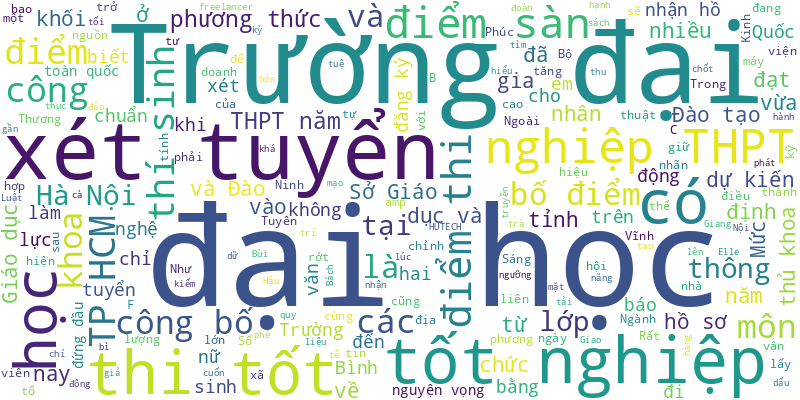
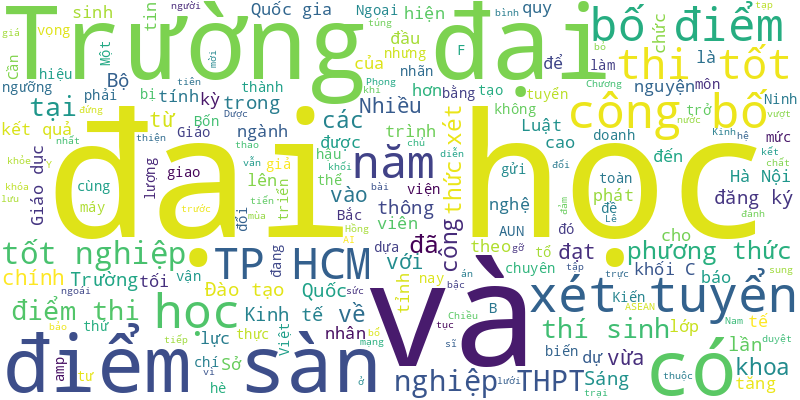
🍀 = 60%

diff --git a/README.md b/README.md
@@ -1,6 +1,28 @@
 # Tuoi Tre RSS 
 
 ## Giáo dục 
+- Bộ Công an chính thức công bố điểm kỳ thi đánh giá của Bộ Công an năm 2024.
+- Trường đại học Kinh tế đang là trường có điểm sàn cao nhất trong các trường thành viên trực thuộc Đại học Quốc gia Hà Nội, với mức điểm 23,5.
+- Tính đến tối 19-7, đã có hơn 70 đại học, trường đại học, học viện công bố điểm sàn xét tuyển dựa vào kết quả thi tốt nghiệp THPT.
+- Nhiều trường đại học tiếp tục công bố điểm sàn phương thức xét tuyển điểm thi tốt nghiệp THPT.
+- Bốn học sinh Trường chuyên Lê Hồng Phong, TP.HCM đã cùng thực hiện dự án thiện nguyện về AI trong mùa hè năm 2024.
+- Một tiến sĩ người Việt vừa bị các tạp chí gỡ bỏ 3 bài báo vì quy trình bình duyệt bị thao túng nhưng vẫn được mời làm diễn giả một khóa học.
+- Tối 19-7, Đại học Kinh tế TP.HCM đã công bố điểm sàn đối với phương thức xét tuyển dựa vào kết quả thi tốt nghiệp THPT năm 2024.
+- Trường đại học Y Dược TP.HCM vừa công bố điểm sàn xét tuyển đại học hệ chính quy năm 2024, trong đó có 2 ngành có mức điểm cao hơn năm ngoái.
+- Trường đại học Luật TP.HCM và Trường đại học Quốc tế (Đại học Quốc gia TP.HCM) công bố điểm sàn phương thức xét điểm thi tốt nghiệp THPT năm 2024.
+- Lần đầu tiên mạng lưới đại học ASEAN (AUN) tổ chức trại hè AUN cho sinh viên 10 nước giao lưu và học tập về chủ đề biến biến đổi khí hậu tại Việt Nam.
+- Chiều 19-7, Sở Giáo dục và Đào tạo TP.HCM đã có thông báo chính thức về tuyển sinh bổ sung lớp 10 năm 2024.
+- Bộ Giáo dục và Đào tạo vừa công bố ngưỡng điểm đảm bảo chất lượng đầu vào (điểm sàn) ở khối đào tạo sức khỏe và giáo viên.
+- Trong kỳ thi tốt nghiệp THPT 2024, Bắc Ninh đứng thứ 5 toàn quốc và vượt lên 21 bậc so với bốn năm về trước.
+- Chương trình học bổng toàn phần được ĐH Kinh tế TP.HCM dành riêng phát triển các nhân tài vùng Mekong - Đồng bằng sông Cửu Long.
+- Nhiều thí sinh cho biết không thể gửi tin nhắn hoặc gửi được nhưng không có mã OTP trả về để hoàn thành đăng ký nguyện vọng xét tuyển.
+- Đó là đề nghị của Thứ trưởng Bộ Khoa học và Công nghệ Hoàng Minh tại hội thảo “Phát triển nguồn nhân lực khoa học, công nghệ và đổi mới sáng tạo trình độ quốc tế”, tổ chức tại Cần Thơ ngày 19-7.
+- Sở Giáo dục và Đào tạo tỉnh Bắc Ninh vừa có thông tin chính thức về điểm thi tốt nghiệp THPT 2024, sau khi tỉnh này đạt kết quả rất cao, đặc biệt là các môn khối C.
+- Sáng 19-7, Trường đại học Kiến trúc TP.HCM và Trường đại học FPT công bố điểm sàn xét tuyển theo phương thức điểm thi tốt nghiệp THPT.
+- Thí sinh đăng ký dự tuyển và theo học tại trụ sở chính của Trường đại học Luật Hà Nội theo khối C (văn, sử, địa) phải có điểm sàn xét tuyển từ 20 điểm trở lên.
+- Năm 2024, số thí sinh có điểm thi khối C đạt 28 điểm tăng 6 lần, 29 điểm tăng hơn 10 lần, 30 điểm tăng 54 lần so với năm 2023.
+- Trường đại học Ngoại thương vừa công bố điểm sàn phương thức xét điểm thi tốt nghiệp THPT và xét kết hợp điểm thi tốt nghiệp với chứng chỉ ngoại ngữ quốc tế.
+- Hôm qua 18-7, thí sinh đã bắt đầu đăng ký xét tuyển đại học năm 2024. Thí sinh cần cân nhắc nhiều yếu tố để chọn đúng ngành học mong muốn.
 - Ngành khoa học máy tính, kỹ thuật máy tính, khoa học dữ liệu và trí tuệ nhân tạo tại Đại học Bách khoa Hà Nội dự kiến có điểm chuẩn trên 28.
 - Sáng 19-7, Trường đại học Kinh tế - Luật (Đại học Quốc gia TP.HCM) công bố điểm sàn nhận hồ sơ xét tuyển đại học 2024. Nhiều trường đại học tư thục cũng công bố điểm sàn các phương thức xét tuyển.
 - Trường đại học Giao thông vận tải công bố điểm sàn từ 16 - 23. Tại Trường đại học Công đoàn, thí sinh đạt từ 5 điểm/môn có thể đăng ký xét tuyển.
@@ -9,62 +31,42 @@
 - Ngoài đạt ngưỡng điểm sàn quy định, thí sinh xét tuyển vào Học viện Báo chí và Tuyên truyền phải có học lực 5 kỳ đạt từ 6,5 và hạnh kiểm khá trở lên.
 - Sáng nay 18-7, đông đảo thí sinh đã có mặt tại Trường Đại học Công nghệ TP.HCM (HUTECH) để tìm hiểu thông tin xét tuyển và chốt nguyện vọng 1 vào trường.
 - Elle Bùi hiện đang cùng lúc vận hành hai nhãn hiệu F&amp;B kinh doanh trà và cà phê, và làm freelancer chuyên tư vấn xây dựng thực đơn cho các doanh nghiệp F&amp;B khác.
-- Trường đại học Công nghiệp Hà Nội, Trường đại học Tài nguyên Hà Nội, Trường đại học Phenikaa, Trường đại học Điện lực... vừa công bố điểm sàn xét tuyển bằng điểm thi tốt nghiệp THPT năm 2024.
-- Chiều 18-7, Học viện Công nghệ bưu chính viễn thông thông báo mức điểm sàn nhận hồ sơ xét tuyển phương thức xét điểm thi tốt nghiệp THPT năm 2024.
-- Dự kiến sau ngày 20-7, Sở Giáo dục và Đào tạo TP.HCM sẽ có thông báo về việc tuyển bổ sung lớp 10 năm 2024.
-- Mức điểm sàn xét tuyển điểm thi tốt nghiệp THPT của hai trường đại học này dao động 16 - 19 điểm.
-- Mức điểm sàn xét điểm thi tốt nghiệp Trường đại học Thương mại là 20. Trường đại học Hòa Bình có 20 ngành cùng lấy điểm sàn 15 điểm.
-- Sở Giáo dục và Đào tạo Hà Nội mới công bố tốp các trường có điểm trung bình môn thi tốt nghiệp THPT cao nhất năm nay.
-- Giám đốc Sở Giáo dục và Đào tạo TP.HCM lý giải về điểm thi tốt nghiệp THPT 2024. Trong đó, TP.HCM đứng thứ 20/63 tỉnh, thành.
-- Rất nhiều thí sinh có điểm xét tuyển đại học theo tổ hợp rất cao nhưng bị điểm liệt. Như vậy thí sinh vừa rớt tốt nghiệp vừa rớt đại học.
-- Bộ Nội vụ yêu cầu các địa phương rà soát hồ sơ cán bộ, công chức, viên chức kê khai sử dụng chứng chỉ ngoại ngữ liên quan đến tổ chức Cambridge International.
-- Sau khi biết điểm thi tốt nghiệp THPT 2024, thí sinh cần lưu ý các mốc thời gian như đăng ký, điều chỉnh nguyện vọng xét tuyển đại học...
-- Số lượng thí sinh chọn bài thi khoa học xã hội liên tục tăng, đồng nghĩa nguồn tuyển cho khối trường kỹ thuật công nghệ cũng ít đi.
-- Điểm chuẩn xét tuyển đại học bằng phương thức điểm thi tốt nghiệp THPT năm nay dự kiến sẽ không biến động nhiều.
-- Trường đại học Khoa học tự nhiên (Đại học Quốc gia TP.HCM) và Trường đại học Công Thương TP.HCM vừa công bố điểm sàn xét tuyển dựa trên điểm thi tốt nghiệp THPT năm 2024.
-- Ngày 17-7, Sở Giáo dục và Đào tạo tỉnh Gia Lai cho biết hai thí sinh đặc biệt là các thầy giáo U50 người Jarai đã đậu tốt nghiệp THPT.
-- Có kết quả thi tốt nghiệp THPT, thí sinh phải đưa ra quyết định phù hợp khi đăng ký, điều chỉnh nguyện vọng xét tuyển đại học.
-- Điểm chuẩn trúng tuyển vào Trường đại học Khoa học xã hội và Nhân văn năm 2024 phương thức xét điểm thi tốt nghiệp THPT dự kiến giữ ổn định, hoặc có thể tăng nhẹ so với năm ngoái.
-- Mức điểm sàn nhận hồ sơ xét tuyển vào Đại học Quốc gia Hà Nội là 20 điểm, chưa nhân hệ số, đã bao gồm điểm ưu tiên khu vực và đối tượng.
-- Thi tốt nghiệp THPT để lấy điểm xét tuyển đại học, nữ sinh tỉnh Vĩnh Phúc 'sốc' khi biết mình trở thành thủ khoa toàn quốc khối D01 với 28,75 điểm.
-- 'Em không đi học thêm ở ngoài, chỉ học ở trên lớp và tự học ở nhà. Hôm thi tốt nghiệp, môn văn em làm 12 trang giấy', nữ sinh được 10 điểm môn văn chia sẻ.
-- Vĩnh Phúc có điểm thi đứng đầu ở 4 môn thi, Tuyên Quang đứng đầu 2 môn. TP.HCM, Nam Định, Ninh Bình mỗi địa phương đứng đầu một môn thi.
-- Học bổng  Chắp cánh ước mơ không chỉ là nguồn động viên về vật chất, mà còn là món quà lớn về tinh thần giúp con đường học tập của các em bớt đi sự gập ghềnh.
-- Một lớp có bốn thủ khoa toàn quốc khối C; có nữ sinh đang làm công nhân trong nhà xưởng nhận tin đạt thủ khoa... 13/19 thủ khoa toàn quốc khối C tại Bắc Ninh là ai?
 ![Edu](Edu.png)
 ## Thời Sự 
-- Hơn 595.000 người rút bảo hiểm xã hội một lần trong 6 tháng đầu năm nay, tăng hơn 3,7% so với cùng kỳ năm ngoái.
-- Quốc lộ 1 đoạn qua cầu vượt Linh Xuân (TP.HCM) đến cầu vượt Sóng Thần (Bình Dương) từng được xem là "điểm đen" của nạn "đinh tặc". Thời gian gần đây lại rộ lên, người dân đã thu gom hàng ký đinh hình thoi sắc nhọn trên đoạn đường này.
-- Một số tin tức đáng chú ý: TP.HCM báo động tỉ lệ trẻ thừa cân, béo phì và tật khúc xạ; Đề xuất 10 nhóm đối tượng được Nhà nước đóng BHYT; Bổ sung 15 chất mới vào danh mục chất ma túy...
-- Hôm nay 19-7, thời tiết cả nước vẫn duy trì mưa dông, mưa to tại Bắc Bộ chủ yếu xảy ra từ đếm đến sáng. Nam Bộ mưa vào chiều tối và đêm.
-- Trả lời cử tri về việc người bệnh vẫn phải tự ra ngoài mua thuốc, vật tư diện bảo hiểm y tế, Bộ trưởng Bộ Y tế Đào Hồng Lan thừa nhận có tình trạng thiếu "cục bộ" tại một số bệnh viện.
-- Hình ảnh trẻ nhỏ ngồi vắt vẻo trên lan can cầu Bến Rừng (nối Hải Phòng với Quảng Ninh) để chụp hình khiến nhiều người cạn lời.
-- Các quốc gia ven biển có quyền tuyên bố thềm lục địa mở rộng ngoài 200 hải lý nếu điều kiện về mặt tự nhiên, địa chất cho phép.
-- Trên một số tuyến đường, các biển báo giao thông bị khuất sau lùm cây, bảng quảng cáo. Khó quan sát, người đi đường cứ thấp thỏm sợ bị dính phạt.
-- Tỉnh Khánh Hòa vừa thu hồi tiếp 9,59ha đất trên núi Chín Khúc, thuộc một phần diện tích còn lại của dự án khu biệt thự và du lịch sinh thái trong khu kinh tế trang trại Đất Lành.
-- Ngày 18-7 tại tỉnh Quảng Nam, Tòa án nhân dân tối cao Việt Nam đã tổ chức Hội nghị tòa án các tỉnh có chung đường biên giới Việt Nam, Campuchia và Lào lần thứ 7.
-- UBND TP Nha Trang chỉ đạo tuyên truyền để người dân cung cấp thông tin, hình ảnh xe vi phạm quy định về dừng, đỗ xe gây mất an toàn giao thông để phạt nguội.
-- Hàng nghìn tài xế công nghệ được đào tạo kỹ năng tiếng Anh, hỗ trợ hành khách, xử lý tình huống, lái xe an toàn…
-- Ngày 18-7, Công an huyện Gò Dầu (tỉnh Tây Ninh) đang tạm giữ hình sự Phạm Văn Hên (38 tuổi) để điều tra việc hiếp dâm người dưới 16 tuổi.
-- Theo TTXVN, chiều 18-7, Đảng, Nhà nước đã trang trọng tổ chức lễ trao tặng Huân chương Sao vàng tới Tổng bí thư Nguyễn Phú Trọng tại Bệnh viện Trung ương Quân đội 108.
-- Sau khi sắp xếp đơn vị hành chính như vậy, toàn tỉnh Bình Thuận có 10 huyện, thị, thành phố và 121 xã, phường trong giai đoạn 2023-2025.
-- Thông tin Đà Nẵng sẽ làm quảng trường ngàn tỉ ở trung tâm nhận được sự quan tâm của nhiều người. Tiến độ triển khai dự án ra sao?
-- Các nước đều "ghi nhận và tôn trọng quyền của Việt Nam" trong việc nộp đệ trình ranh giới thềm lục địa mở rộng ở khu vực giữa Biển Đông.
-- Thông tin ngắt kết nối mạng với điện thoại chỉ dùng được sóng 2G do đại diện Sở Thông tin và Truyền thông TP.HCM nêu tại họp báo định kỳ về kinh tế - xã hội chiều 18-7.
-- 6 chặng bay của Vietnam Airlines từ TP.HCM đến Hà Nội, Nha Trang, Đà Lạt, Đà Nẵng, Phú Quốc, Huế và ngược lại sẽ được hưởng ưu đãi từ chương trình chuyến bay đêm.
-- Chủ tịch Đại hội đồng Liên Hiệp Quốc Dennis Francis sẽ ở Việt Nam từ ngày 21 đến 23-7. Đây là lần đầu tiên một chủ tịch Đại hội đồng Liên Hiệp Quốc đến thăm Việt Nam.
-- Thanh tra tỉnh Quảng Nam chỉ ra nhiều sai phạm tại một số dự án đầu tư xây dựng cơ bản của Công ty Phát triển hạ tầng Khu công nghiệp Chu Lai.
-- Năm tháng đầu năm 2024, trong 11 loại vắc xin thuộc Chương trình tiêm chủng mở rộng chỉ có 3 loại tiêm đạt chỉ tiêu, còn 8 loại vắc xin chưa đạt chỉ tiêu đề ra trong tiêm chủng.
-- Đại diện Sở Tài nguyên và Môi trường TP.HCM cho biết TP đã có chính sách hỗ trợ các đơn vị thu gom rác có nhu cầu vay vốn chuyển đổi phương tiện.
-- Ngày 18-7, kỳ họp HĐND tỉnh Kiên Giang bước vào phiên chất vấn và trả lời chất vấn. Một trong các nội dung được quan tâm là phòng, chống ngập.
-- Tỉnh Tây Ninh đang đẩy nhanh tiến độ triển khai các công trình, dự án trọng điểm về giao thông hạ tầng, đặc biệt là dự án đường cao tốc TP.HCM - Mộc Bài.
-- Camera hành trình ô tô ghi cảnh xe buýt dừng giữa đường Lê Hồng Phong (quận 5, TP.HCM) đón khách. Clip sau đó được đăng lên mạng, gây bức xúc.
-- Dự án này trước đây được tỉnh Bình Thuận chọn là công trình tiêu biểu để chào mừng Năm Du lịch quốc gia 2023. Thế nhưng dự án đến nay vẫn chưa xong.
-- Ngày 18-7, kỳ họp Hội đồng nhân dân tỉnh Kiên Giang bước vào phiên chất vấn và trả lời chất vấn giữa các đại biểu HĐND tỉnh với lãnh đạo các sở, ngành tỉnh. Câu chuyện được đại biểu quan tâm là xử lý rác y tế của ngành y.
-- Trong 6 tháng đầu năm 2024, tỉnh Tây Ninh đã xử lý 15 vụ và 12 người liên quan đến tín dụng đen (11 người bị khởi tố).
-- Bộ Ngoại giao xác nhận lãnh đạo cấp cao Việt Nam đã gửi lời thăm hỏi và mong ông Trump sớm bình phục sau vụ ám sát hụt hôm 13-7.
+- Dự báo trong hôm nay (20-7), áp thấp nhiệt đới trên Biển Đông có khả năng mạnh lên thành bão, nhiều khu vực trên cả nước có mưa vừa đến mưa to.
+- Ông Nguyễn Thế Kỷ, chủ tịch Hội đồng Lý luận phê bình văn học nghệ thuật Trung ương, bày tỏ niềm xúc động và thương tiếc khi hay tin Tổng bí thư Nguyễn Phú Trọng qua đời.
+- Trao đổi với Tuổi Trẻ, ông Phạm Quang Nghị, nguyên bí thư Thành ủy Hà Nội, đã xúc động nhắc về những kỷ niệm sâu sắc với Tổng bí thư Nguyễn Phú Trọng.
+- Một số tin tức đáng chú ý: Hai 'đại gia' năng lượng, bất động sản chậm trả món nợ trái phiếu nghìn tỉ; Tỉnh Bắc Ninh cấp nhà tiền tỉ để thu hút giáo viên ngành bán dẫn...
+- Hôm nay 20-7, thời tiết Bắc Bộ giảm mưa, mưa chủ yếu xảy ra vào đêm và sáng. Nam Bộ vẫn còn mưa to, trên biển có áp thấp nhiệt đới.
+- Tối 19-7, không lâu sau khi có thông tin chính thức Tổng bí thư Nguyễn Phú Trọng từ trần, lãnh đạo Lào, Trung Quốc, Campuchia, Cuba và Nga đã gửi điện, thư chia buồn.
+- Ở tuổi 90, giáo sư Hà Minh Đức vẫn rất minh mẫn, nhắc lại những ấn tượng về người học trò Nguyễn Phú Trọng, nam sinh viên khoa văn Trường đại học Tổng hợp Hà Nội ngày ấy...
+- Cơ quan khí tượng nhận định áp thấp nhiệt đới trên Biển Đông có khả năng mạnh lên thành bão trong 24 giờ tới.
+- "Tôi chứng kiến và luôn ghi nhớ về một người bạn, một tấm gương về sự liêm khiết, luôn vì cái chung, chưa từng suy nghĩ cục bộ, lợi ích riêng".
+- Tuổi Trẻ Online xin trân trọng giới thiệu bài viết: "Tổng bí thư Nguyễn Phú Trọng - nhà lãnh đạo lỗi lạc, trọn đời vì nước, vì dân" của Đại tướng Tô Lâm, Ủy viên Bộ Chính trị, Chủ tịch nước Cộng hòa xã hội chủ nghĩa Việt Nam.
+- Tỉnh Khánh Hòa lần đầu tiên ra mắt mô hình xe chữa cháy lưu động, đặc biệt các thành viên của lực lượng tham gia bảo vệ an ninh, trật tự cơ sở trực tiếp vận hành.
+- Do sớm chuyển sang hệ thống máy tính dự phòng, nên các sân bay của Việt Nam không bị ảnh hưởng về khai thác bởi sự cố liên quan đến dịch vụ đám mây của Microsoft.
+- Thông tin Tổng bí thư Nguyễn Phú Trọng từ trần vừa được công bố, người dân khắp mọi miền Tổ quốc đã bày tỏ sự kính trọng và niềm tiếc thương vô hạn, khi phải tiễn biệt một nhân cách lớn của dân tộc.
+- Phó thủ tướng Chính phủ Lê Minh Khái đề nghị Bộ Công Thương nghiên cứu việc thành lập sàn giao dịch xăng dầu.
+- HĐND tỉnh Bình Thuận khóa XI vừa thông qua nghị quyết sắp xếp một số đơn vị hành chính cấp huyện, xã giai đoạn 2023-2025, trong đó gộp 5 phường ở Phan Thiết còn 2.
+- Đảng, Nhà nước đã trang trọng tổ chức trao Huân chương Sao vàng tặng Tổng bí thư Nguyễn Phú Trọng, để ghi nhận những công lao to lớn, đặc biệt xuất sắc đối với sự nghiệp cách mạng của Đảng, dân tộc.
+- Theo thông tin từ Hội đồng chuyên môn bảo vệ sức khỏe cán bộ Trung ương, Tổng bí thư Nguyễn Phú Trọng đã từ trần vào 13 giờ 38 phút ngày 19-7-2024 tại Bệnh viện Trung ương Quân đội 108.
+- Thanh tra Sở Giao thông vận tải Khánh Hòa vừa kết luận thanh tra 15 công ty vận tải hàng hóa, hành khách, xử phạt vi phạm đối với 9 công ty.
+- Lực lượng chức năng Quảng Ngãi đang phối hợp làm rõ việc hai người mặc quân phục bộ đội và quân hàm thượng tướng, đại tá ra đảo Lý Sơn.
+- Ngày 19-7, Công an tỉnh Hà Tĩnh phối hợp huyện Nghi Xuân tổ chức lễ công bố quyết định của Chủ tịch nước và Thủ tướng Chính phủ về việc truy tặng Huân chương Bảo vệ Tổ quốc hạng ba và Bằng Tổ quốc ghi công đối với liệt sĩ Trần Trung Hiếu.
+- Sở Giao thông vận tải TP.HCM sẽ tham mưu UBND TP.HCM bố trí vốn mở rộng đường Nguyễn Thị Tú (quận Bình Tân), thực hiện trong giai đoạn năm 2026-2030.
+- Cầu Bưng (quận Tân Phú - Bình Tân, TP.HCM) đã thông xe vào năm 2022, đến nay các đơn vị vẫn đang tập trung nghiệm thu, hoàn thành đường dân sinh...
+- Cơ quan cảnh sát điều tra đã ra quyết định khởi tố bị can, lệnh bắt tạm giam bà Nguyễn Thị Như Loan, tổng giám đốc Công ty CP Quốc Cường Gia Lai, trong vụ án xảy ra tại Tập đoàn Công nghiệp cao su Việt Nam.
+- 70 năm đã trôi qua nhưng ý nghĩa lịch sử và các bài học rút ra từ Hiệp định Geneve vẫn mang hơi thở của thời đại hôm nay, là mốc son của nền ngoại giao Việt Nam trong buổi đầu non trẻ.
+- Ông Lê Hữu Đức - giám đốc Công ty Điện lực Tiền Giang, cho biết: "Ngành điện cam đoan không bị thiếu điện mà chỉ bị quá tải máy biến áp".
+- Mưa lớn trong đêm gây sạt lở đất xuống nhà phó chủ tịch HĐND xã Đại Sơn (huyện Văn Yên, Yên Bái), 4 người trong gia đình vừa chạy ra ngoài thì tường phòng ngủ sập xuống.
+- Xin chừa các ô trống xung quanh nhà để vận chuyển vật liệu phục vụ thi công xong, chủ nhà "tận dụng"  trổ đến 17 cửa sổ chiếu thẳng vào nhà hàng xóm.
+- Tòa án nhân dân tỉnh Lâm Đồng hủy bỏ biện pháp khẩn cấp tạm thời mà đơn vị này ban hành đối với công trình xây dựng không phép tòa nhà câu lạc bộ golf Đồi Cù Đà Lạt.
+- Năm 2013 Công ty CP Quốc Cường Gia Lai đã mua 100% vốn góp của chủ đầu tư dự án 39-39B Bến Vân Đồn, trong khi bên bán đã bị cơ quan điều tra bắt trước đó.
+- Hai đường dây buôn lậu vàng vừa bị Tòa án nhân dân TP.HCM tuyên các mức hình phạt từ 4 - 18 năm tù về tội buôn lậu.
 ![New](News.png)
 ## Nhịp sống số 
+- Thực hiện chủ trương tắt sóng 2G của Bộ Thông tin và Truyền thông vào tháng 9-2024, VinaPhone triển khai loạt ưu đãi khách hàng nâng cấp lên điện thoại 4G miễn phí và nhiều ưu đãi hấp dẫn khác để duy trì liên lạc mà không phải lo lắng về chi phí.
+- Với gần một nửa dân số Úc bị ảnh hưởng, vụ tấn công mạng MediSecure là một trong những vụ xâm phạm dữ liệu lớn nhất trong lịch sử quốc gia này.
 - Đầu tuần này, giới công nghệ xôn xao với thông tin Alphabet, công ty mẹ của Google, đang sắp hoàn tất thương vụ 'khủng' mua lại công ty khởi nghiệp an ninh mạng Wiz với giá 23 tỉ USD.
 - Trước Đại hội toàn quốc Đảng Cộng hòa, Meta thông báo sẽ dỡ bỏ các hạn chế với tài khoản Facebook và Instagram của cựu tổng thống Donald Trump.
 - Các nhà nghiên cứu tại Cybernews đã phát hiện vụ rò rỉ mật khẩu lớn nhất trong lịch sử, trong đó gần 10 tỉ mật khẩu đã bị lộ.
@@ -93,6 +95,4 @@
 - Mới đây, Huawei chính thức cho ra mắt đồng hồ thông minh mới HUAWEI WATCH FIT 3.
 - Sau đại dịch, ngành dược đã nhận thấy những cơ hội phát triển mạnh mẽ từ việc thúc đẩy ứng dụng công nghệ nhiều hơn.
 - Số người thừa nhận lạm dụng tình dục trực tuyến trẻ em ở Anh cho thấy mức độ đáng báo động của vấn nạn này.
-- Đó là khẳng định của bà Loredana Crisan, phó chủ tịch phụ trách Messenger toàn cầu của Hãng Meta, trong cuộc phỏng vấn độc quyền với báo Tuổi Trẻ. Bà khẳng định Việt Nam là một trong những thị trường lớn nhất - nơi hãng không ngừng đầu tư.
-- Đừng để mình 'lấm lem' trên mạng chỉ vì một phút ham vui theo trào lưu hoặc mắc vạ miệng chỉ vì những bức xúc cá nhân.
 ![life](Life.png)
